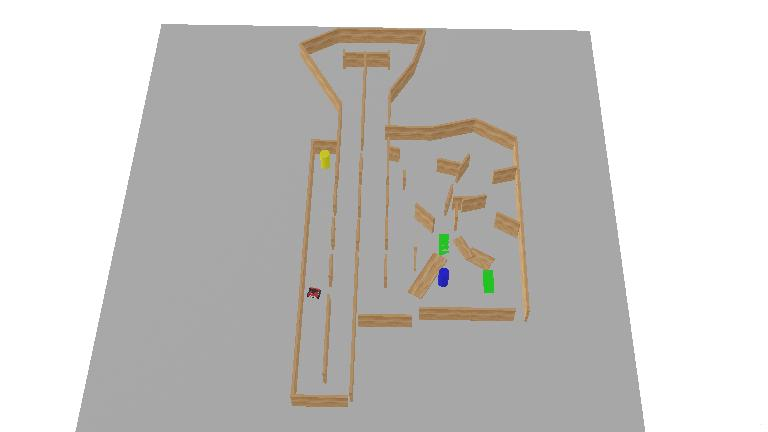
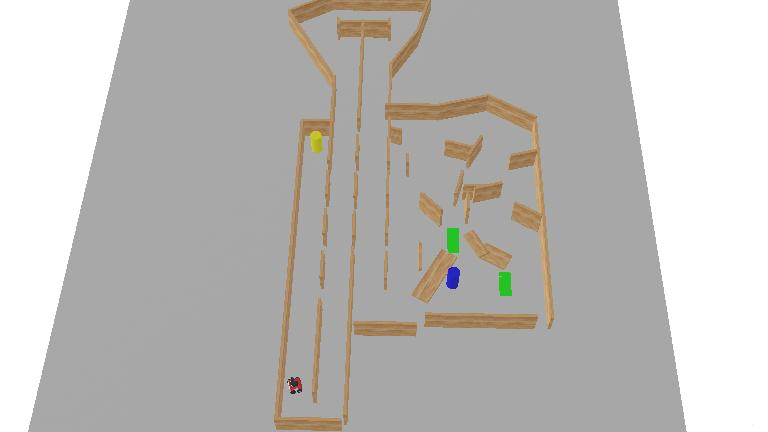
Final final final no changes

Changed region(s): [[0.0312, 0.0, 0.9062, 1.0]]

diff --git a/controllers/my_controller/config.py b/controllers/my_controller/config.py
@@ -26,7 +26,7 @@ OVERHEAD_MARK_MIN_PIXELS = 8   # min valid depth pixels in the overhead band bef
 
 # Height gate for floating-wall marking: some floating walls sit high enough
 # that the robot can drive underneath; others sit low enough to hit the body.
-# These are DEDICATED to the overhead/floating-wall height math -- kept
+# These are DEDICATED to the overhead/floating-wall height math -- 
 # separate from GREEN_CAM_HEIGHT_M / GREEN_CAM_X_OFFSET (the ground-projection
 # constants) even though it is physically the same depth camera, so the two
 # features can be tuned independently without touching each other.
@@ -166,9 +166,9 @@ DWA_CLEARANCE_WEIGHT = 2.0   # reward staying away from obstacles
 # no hard reject, so a genuinely tight corridor still yields the least-bad move
 # instead of a stuck refusal) any rollout whose clearance to a known wall drops
 # below the robot's half-width.
-DWA_ROBOT_CLEAR_PX   = 4.0   # robot half-width in cells (~0.133 m); keep this much wall clearance
+DWA_ROBOT_CLEAR_PX   = 3.5   # robot half-width in cells (~0.133 m); keep this much wall clearance
                              # (bumped up from 3.0/~0.10 m for extra margin against clipping)
-DWA_CLEAR_PENALTY    = 4.0   # score penalty per cell of encroachment below DWA_ROBOT_CLEAR_PX
+DWA_CLEAR_PENALTY    = 3.5   # score penalty per cell of encroachment below DWA_ROBOT_CLEAR_PX
 # Live-lidar speed governor: DWA only avoids MAPPED obstacles, so while exploring
 # UNKNOWN space (treated as free) the robot charges unmapped walls at full speed
 # until the binary bumper trips too late -> ram/reverse/replan thrash.  Scale the

diff --git a/controllers/my_controller/sensors.py b/controllers/my_controller/sensors.py
@@ -395,7 +395,7 @@ _OVERHEAD_ROIS = {
 # ROI-centre bearing (which put points at the wrong angle -- see
 # overhead_obstacle_points_body's docstring).
 _OVERHEAD_BAND_COL_FRAC = (0.05, 0.95)
-_OVERHEAD_BAND_ROW_FRAC = (0.02, 0.55)
+_OVERHEAD_BAND_ROW_FRAC = (0.02, 0.63)
 
 
 def _overhead_roi_near_depth(data, w, h, x0f, x1f, y0f, y1f):
